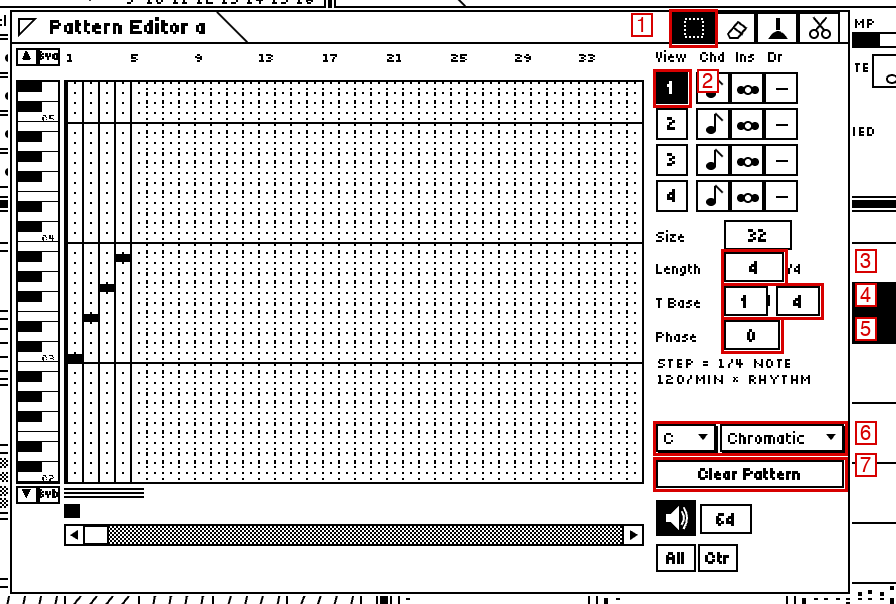
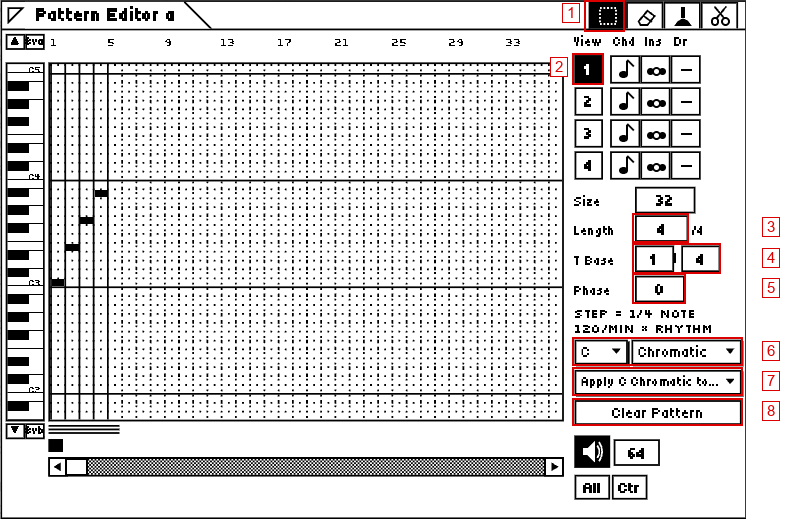
Docs: selecting vs switching Robots, Allowed Groups, Apply scale to
CONDUCTORS.md: Allowed Groups (how, every pathway, what is not restricted, one
Group, a Group switched off while in use, never empty), the overview's select /
ON-OFF split, the Groups row, persistence without a version change, tests.
Quick Start: editing an OFF Robot, Allowed Groups, Apply scale to (box 7),
refreshed Robots and Pattern Editor screenshots. README, ARCHITECTURE and the
in-app Help updated.

diff --git a/src/ui/otherWindows.ts b/src/ui/otherWindows.ts
@@ -556,7 +556,8 @@ n/d of a whole note (1|8 = eighths); Rhythm multiplies each step; Time Distortio
 Phase delays the start. Also in the Pattern Editor (Length, T Base, Phase).<br>
 <b>Pattern Editor</b> — Length = steps the Voice plays (Alt: cut / extend the Pattern) · Clear
 Pattern · Root + Scale of the Pattern (changing it moves the notes by scale degree; new notes snap
-into it; M plays the notes as written). <b>Scale Lock</b> (Transposition window, emmm): Transposition
+into it; M plays the notes as written) · Apply … to… gives it to this Pattern, the current Group or
+all Patterns. <b>Scale Lock</b> (Transposition window, emmm): Transposition
 counts degrees of each Pattern's scale instead of semitones.<br>
 <b>Typing numbers</b> — click any number, type the value, Return (Escape cancels); ↑ ↓ step it.
 Time Base takes "3/8". Range bars take "40-100". emmm ▸ Keyboard Shortcuts… (⌥H) lists every key.<br>
@@ -573,7 +574,9 @@ same music from Start.<br><br>
 (subtle → chaos), A/B states, MIDI Learn, CC Cycles, and <b>Trajectory</b> (⌥J):
 rows of values moved through at a musical rate, driving a MIDI controller, Density, Transposition,
 Tempo, the Baton or a Position. <b>Robots</b> (⌥W): four Robot Conductors (Robot 1 is M's) with
-personalities, Position weights, Rules (WHEN … THEN …) and Home / Return (⇧⌥H).
+personalities, Position weights, Rules (WHEN … THEN …) and Home / Return (⇧⌥H). Click a Robot's
+number to edit it (it stays on or off); ON / OFF switches it. Groups a–f: the Pattern Groups that
+Robot may wander to (you can still choose any).
 Options ▸ Performance Feedback shows what M decides for each note.<br>
 <b>Comfort</b> — rest the mouse on a control for a tip (Options ▸ Show Tips) · ⤢ in the menu bar =
 full screen.<br><br>

diff --git a/docs/CONDUCTORS.md b/docs/CONDUCTORS.md
@@ -27,7 +27,8 @@ generic, inert-by-default engine hooks were added (`robotGate`, `observer`); wit
 
 ```
 extended.robots[4]      RobotDef: enabled, personality, variables[], rateNum|rateDen,
-                        home (Position or none), params, target (Follower/Contrarian)
+                        home (Position or none), params, target (Follower/Contrarian),
+                        groups[6] (Allowed Groups a–f, default all)
 extended.weights        per Variable: six weights 0–100 (default 10 each)
 extended.rules[≤16]     Rule: on, when (Condition), every N, then (Action), at (timing)
 extended.home           captured Positions (all eleven Variables) + Baton; which are included
@@ -82,6 +83,36 @@ fire) but leaves claimed Variables alone. M's Baton robot runs after actions at 
 Robot 1 it also wins. Changes at *different* ticks: the latest wins (as with a hand on a
 Variable a Trajectory drives). A Variable being **Returned** (or resting at Home after a
 Return) belongs to the Return — see §4, *Ownership*.
+
+### Allowed Groups
+
+Each Robot has its own **Allowed Groups**: the Pattern Groups (a–f, M's six) it may choose by
+itself. Default: all six — so every older document and every Robot left alone behaves exactly
+as before (a test compares the music with a fingerprint recorded before this existed).
+
+* **How.** For that Robot only, a Pattern Group outside its set counts as weight 0
+  (`robotWeights`); if its set leaves no weight above 0, its allowed Groups count equally (the
+  Allowed Groups win over the weights). Its candidates and each Variable's resolution then work
+  as above, so Pattern Group always resolves to an allowed Group. Its other Variables are not
+  limited except as one Position for all of them already implies (exactly as a weight of 0 on
+  Pattern Group would). A Robot that does not move Pattern Group is not affected at all.
+* **Every automatic pathway**: timer decisions of every personality, Rule *advance* and
+  *choose*, Follower / Contrarian (a Follower keeps to its *own* Groups), and Robot 1 as
+  Baton (M) — its jump onto a forbidden Group lands on the nearest allowed one, also when the
+  Baton lands on a Snapshot cell (the stored Snapshot is untouched). This goes through
+  `robotGate.place`, which exists only while Extended is on; Classic M's robot is untouched.
+* **Not restricted**: your hand (clicking a Group, recalling a Snapshot, MIDI Learn …), a Rule's
+  *set Position* or *recall Snapshot*, Trajectories, Slideshows and Return Home. The setting
+  limits where a Robot *wanders*, never what you or your Rules choose. Priority is unchanged:
+  when two Robots change Pattern Group at the same tick, the lower number wins.
+* **One Group**: the Robot stays in it (and goes there at its next decision); its other
+  Variables keep moving. A Group is a set of four Patterns (one per Voice), so there is no
+  "Pattern inside a Group" for a Robot to choose — the four Voices play on as always.
+* **A Group switched off while the music is in it** (by any means): nothing jumps when you
+  switch it off. The Robot's next decision chooses from its allowed Groups — even a decision to
+  "stay" resolves to the nearest allowed Group — and so does every one after.
+* **Never empty.** The last allowed Group cannot be switched off (refused with a message);
+  a document with none, or with nonsense, loads with all six allowed.
 
 ## 3. Personalities
 
@@ -231,12 +262,14 @@ scans for changes and runs the queue at the transport's current tick:
 Extended window. One floating window (476 × 340) in emmm's controls and the Extended palette
 area. Every control calls a Session method; the window keeps no musical state.
 
-* **Overview** (always visible): four rows — number (inverted = on; click to switch),
-  personality (`*` = changed by a Rule), the six Positions (current inverted, Home underlined,
+* **Overview** (always visible): four rows — number (click it, or anywhere on the row, to
+  *select* the Robot for editing: outlined, the row dotted; this never switches it), **ON / OFF**
+  (inverted = on; the only switch in the row — an OFF Robot can be selected and fully
+  configured, then switched on when you want it), personality (`*` = changed by a Rule), the six Positions (current inverted, Home underlined,
   dotted with `·` = not allowed by the weights), rate (`n|d`, `sa`, or `1|n` for M's robot),
-  Variables, and state in words: `off`, `ready`, `next 3:1`, `▸ Dens Vel` (just moved, in the
+  Variables (`PGrp:ab` when its Allowed Groups are not all six), and state in words: `off`, `ready`, `next 3:1`, `▸ Dens Vel` (just moved, in the
   activity colour and bold), `waits R2`, `PAUSED`, `RETURN`, `resting`, `on Rules`. Click a
-  row to edit that Robot. The header shows the clock source (internal / external and its state).
+  row or number to edit that Robot. The header shows the clock source (internal / external and its state).
 * **Activity log**: the last six real runtime events (Robot moves with the Variables they
   changed, "followed / moved away from Robot n", rules firing or waiting, Return started /
   steps / Variable reached Home / complete / rest over, Robots switched or paused), each with
@@ -250,7 +283,9 @@ area. Every control calls a Session method; the window keeps no musical state.
   personality's parameters only), Home Position (– or 1–6), where it is, its priority, and the
   description of the algorithm from §3 with whether weights shape it and which Positions are
   allowed now. For Baton (M): M's rate and jump ranges (the same settings as the Conducting
-  window).
+  window). **Groups a–f**: the Robot's Allowed Groups (inverted = allowed; **All** allows every
+  Group again), with the set in words ("chooses only Groups a b"; "used when it moves Pattern
+  Group" if Pattern Group is not one of its Variables).
 * **WEIGHTS**: a Variable strip (each with a miniature of its weights), six bars (drag up /
   down, or ↑ ↓ with the bar focused; 0 = hatched "excluded"), the number box under each, each
   Position's chance in %, ▸now and ⌂ marks, a "each pick" strip proportional to the chances,
@@ -273,7 +308,8 @@ transport keys and Tab stays M's Pause while you play with the mouse. **⌥W** o
 front window moves the focus into it (its tab); **← →** move between its controls (also off a
 closed pop-up), **↑ ↓** between toggles, **Enter / Space** act, **Escape** gives the keys back.
 Number boxes work as everywhere in emmm (click, type, Enter; ↑ ↓ step). **⇧⌥H** is Return
-Home from anywhere.
+Home from anywhere. Selection and switching stay separate here too: Enter / Space on a Robot's
+number selects it, on its ON / OFF switches it.
 
 **Screen size.** emmm draws a fixed 720 × 470 screen scaled to the browser window, so the
 Robots window keeps its proportions at any window size; it is a floating window that covers
@@ -287,6 +323,9 @@ M's robot rate; Robots 2–4 off; equal weights; no rules; no Home). Everything 
 load: unknown personalities → Drunk (Baton only for Robot 1), Follower cycles broken, weights
 clamped 0–100 with at least one non-zero per Variable, rules with unknown kinds dropped,
 references clamped to existing Voices / Robots / Positions / Snapshots, rest clamped 0–32.
+Allowed Groups (`groups`, six booleans per Robot) needed no new version: a document without
+them — every document before them — loads with all six allowed; a missing entry counts as
+allowed, only `false` forbids, and none allowed (or nonsense) loads as all six.
 Saved: definitions, weights, rules, Home, Return settings. Not saved: everything runtime.
 Robot randomness comes from the document seed (streams 6000 + n), re-seeded at Start and by
 Reroll. Editing any of it is one Undo step; Robot moves, rule firings and Returns never enter
@@ -299,8 +338,15 @@ the history.
   personality, Follower / Contrarian and cycles, every condition and action, rule safety,
   quantization, hung notes, Home / Return paths, ownership with simultaneous Robot,
   Trajectory and Return, manual changes in Play / Pause / Stop, persistence and Undo.
+* `test/robot-groups.test.ts` — Allowed Groups: every personality over 160 decisions, a b /
+  a c / one Group, a Group switched off while in use, two Robots with different sets at once,
+  Rule advance / choose, Follower, Baton (M) and its Snapshot cell, Classic untouched, the hand
+  and Rules unrestricted, persistence, old and broken data, Undo; and all Groups allowed =
+  the exact music recorded before the feature (fingerprint).
 * `test/robots-ui.test.ts` — the window in a simulated browser (happy-dom), driven by pointer
-  and key events.
+  and key events; including: selecting a Robot (number, row, keyboard) never switches it, an
+  OFF Robot can be fully configured, selecting while playing leaves the music identical, and
+  the Groups row.
 * `scripts/browser-test.mjs` (`npm run test:browser`) — headless Chrome / Chromium over the
   DevTools protocol (no dependencies) with a **fake Web MIDI** output and input, real mouse and
   key events on the real interface: the 24 workflow scenarios (open, enable, personality,
@@ -308,7 +354,10 @@ the history.
   fired by a click while stopped, Home, Return with a Trajectory held off, rest, save, reload,
   open, Classic, Pause / Continue / Stop, external clock Start / Stop / Continue, no stuck notes
   or stray transport messages) plus keyboard, focus, dialogs, disabled controls, invalid values,
-  Undo / Redo, a 900 × 600 window and console errors. Screenshots are written to a temporary
+  Undo / Redo, a 900 × 600 window and console errors; and scenarios **A–G**: configure an OFF
+  Robot without switching it; Robot 1 on Groups a b over 40+ decisions; two Robots with
+  different Groups at once; a manual Group change; a scale applied to a Group and to all
+  Patterns, then one changed alone; save / reload / open; an older project. Screenshots are written to a temporary
   folder (or `SHOTS=dir`). This is not a test of real MIDI hardware.
 
 ## 9. Trade-offs and limits

diff --git a/docs/QUICK-START.md b/docs/QUICK-START.md
@@ -214,7 +214,7 @@ Variable on Position 1. (Your MIDI routing from the previous step is kept.)
 Double-click Voice 1's **Select** box (the box with ♪ ●● · in the first row of the Patterns
 window). The **Pattern Editor** opens.
 
-![Pattern Editor with C3 E3 G3 B♭3 entered; 1 tools, 2 View (which Voice), 3 Length, 4 Time Base, 5 Phase, 6 the Pattern's root and scale, 7 Clear Pattern](images/qs-pattern-editor.png)
+![Pattern Editor with C3 E3 G3 B♭3 entered; 1 tools, 2 View (which Voice), 3 Length, 4 Time Base, 5 Phase, 6 the Pattern's root and scale, 7 Apply scale to…, 8 Clear Pattern](images/qs-pattern-editor.png)
 
 Pitch runs vertically (a keyboard on the left, with C2, C3, C4… marked in tiny letters);
 **steps** run left to right. As you move the mouse over the grid, the right-hand panel shows
@@ -232,7 +232,8 @@ same values) as its row in the Patterns window:
 - **4 T Base** and **5 Phase** — how fast the Voice steps through the Pattern, and how late it
   starts (see *Making a Voice faster or slower* below). The line under them says it in words,
   e.g. "step = 1/4 note · 120/min × Rhythm".
-- **6 Root and Scale** of the Pattern and **7 Clear Pattern** — see *Pattern editing helpers* below.
+- **6 Root and Scale** of the Pattern, **7 Apply scale to…** and **8 Clear Pattern** — see
+  *Pattern editing helpers* below.
 
 Now close the Pattern Editor with the triangle at its top-left corner (it covers part of
 the Patterns window).
@@ -687,6 +688,12 @@ slow section to a fast one. All of these can be changed while the music plays.
   One **⌘Z** undoes the whole change. The scale is saved with the document; older documents
   open as Chromatic, unchanged. It is an editing tool: M plays the Pattern's notes exactly as
   they are — nothing is corrected while the music plays.
+- **Apply scale to…** (box 7, emmm): gives this Pattern's Root and Scale to **This Pattern**,
+  to every Pattern of the **current Group** (all four Voices), or to **All Patterns** (all six
+  Groups). Each Pattern changes exactly as if you had chosen the scale in it yourself — its own
+  notes move from its own scale to the new one; its rhythm, length, Time Base, Phase and
+  everything else stay. Afterwards each Pattern has its own scale again: apply D Minor to all,
+  change one to E Minor, and the rest stay in D Minor. One **⌘Z** undoes the whole apply.
 
 ## Saving your work
 
@@ -900,12 +907,16 @@ brought back to. The design notes, with every algorithm, are in [CONDUCTORS.md](
 
 ![The Robots window: the four Robots, the activity log and the ROBOT tab](images/qs-robots.png)
 
-- **Switch a Robot on:** click its number in the overview (inverted = on). **Robot 1 is M's own
-  Robot Conductor** — the same switch as the Conducting window's robot button, playing M's
-  algorithm (*Baton (M)*) unless you give it another personality. Robots 2–4 start off.
+- **Edit a Robot / switch it on:** click a Robot's **number** (or anywhere on its row) to edit
+  it in the ROBOT tab — this only *selects* it (outlined); it never switches it on or off. The
+  **ON / OFF** box beside the number is the switch (inverted = on). So you can set up an OFF
+  Robot completely — personality, Variables, rate, Groups — while the others play, and switch
+  it on when you want it. **Robot 1 is M's own Robot Conductor** — its ON / OFF is the same
+  switch as the Conducting window's robot button, playing M's algorithm (*Baton (M)*) unless
+  you give it another personality. Robots 2–4 start off.
 - **Give it Variables:** in the **ROBOT** tab, click the Variable toggles (Note Density,
   Velocity, Legato …). A Robot holds one Position (1–6) and puts all its Variables there — the
-  overview shows it inverted. Click a row of the overview to edit another Robot.
+  overview shows it inverted.
 - **Speed:** the **rate** is a Time Base like a Pattern's: one decision every `n | d` of a whole
   note — `1|4` a beat, `1|1` a bar, `2|1` two bars, `16|1` sixteen bars. Type `2/1` to set both.
   **sa** = it moves only when a Rule tells it to.
@@ -917,6 +928,14 @@ brought back to. The design notes, with every algorithm, are in [CONDUCTORS.md](
   way. Only the chosen personality's settings are shown, with a description of what it does;
   **Defaults** resets them. A Follower cannot watch a Robot that watches it back (the choice is
   greyed out).
+- **Allowed Groups:** the **Groups a–f** switches in the ROBOT tab say which Pattern Groups this
+  Robot may choose when it moves Pattern Group (all six by default). Switch off c–f and it
+  wanders between a and b only; leave one on and it stays in that Group (its other Variables
+  keep moving). Each Robot has its own set. The last Group can't be switched off; **All**
+  allows every Group again. Switching off the Group the music is in doesn't jump anywhere: the
+  Robot's next decision goes to an allowed Group. It limits the Robots only — you can still
+  click any Group, and Snapshots and Rules that set a Group still do. The overview shows a
+  restricted Robot as `PGrp:ab`.
 - **Who wins:** Robots may share a Variable. If two change it at the same moment, the lower
   number wins; otherwise the latest change stands. Your own clicks always work.
 - **WEIGHTS:** choose a Variable, then drag its six bars (or type the numbers): a taller bar is

diff --git a/docs/ARCHITECTURE.md b/docs/ARCHITECTURE.md
@@ -226,7 +226,9 @@ which the Conductor installs only while Extended is on (see below).
   through `MEngine.observer` (called inside `render` after every Voice event, action and
   Baton-robot move), so results do not depend on render granularity; `poke()` lets Rules see a
   hand at once (from `Session.changed`, never inside `render`, flagged by `MEngine.rendering`).
-  `robotGate` parks, holds or fences M's Baton robot. Ownership of a Variable's Position is
+  `robotGate` parks, holds or fences M's Baton robot, and `robotGate.place` keeps its Pattern
+  Group to Robot 1's Allowed Groups. A Position Robot's Allowed Groups act as per-Robot
+  weights (`robotWeights`) for its candidates and resolution. Ownership of a Variable's Position is
   RETURN > TRAJECTORY > ROBOT (`Conductor.owns`); Trajectories ask it in `trajApply`. A bounded
   FIFO queue, once-per-moment firing and a depth limit of 3 keep Rules finite.
 * `ui/robotsWindow.ts` — the Robots window (overview, activity log, ROBOT / WEIGHTS / RULES /
@@ -235,7 +237,8 @@ which the Conductor installs only while Extended is on (see below).
 A Pattern's Root + Scale (`Pattern.scale`, `app/scales.ts`) is editing metadata: pitch-class
 sets that shade the grid, snap new notes, and — when changed with `Session.setPatternScale` —
 transform the Pattern's notes by scale degree (`transformPitch` documents the exact rule;
-one Undo step). There is no real-time quantiser. The engine reads it only for the emmm
+one Undo step). `Session.applyPatternScale` does the same to this Pattern, every Pattern of the
+active Group, or all Patterns, each from its own scale and with its own copy (one Undo step). There is no real-time quantiser. The engine reads it only for the emmm
 **Transposition Scale Lock** (`Composition.scaleLock`, off by default): `MEngine.transposePitch`
 then moves each note by `shiftDegrees` (degrees of that Voice's current Pattern scale; a note
 outside the scale keeps its chromatic offset from the degree below; Chromatic = semitones)

diff --git a/README.md b/README.md
@@ -116,11 +116,11 @@ Sequence), Web MIDI input and output with timestamped scheduling, save/load and 
 randomness, and colour palettes (Options ▸ Palette…; Classic black-and-white by default).
 Everyday comforts that do not change M's music: Undo / Redo, the Pattern's Length, Time Base
 and Phase right in the Pattern Editor, Clear Pattern, a Root + Scale per Pattern (changing it
-moves the notes by scale degree) and an optional Transposition **Scale Lock** (Transposition
+moves the notes by scale degree; it can be given to a whole Group or every Pattern at once) and an optional Transposition **Scale Lock** (Transposition
 counts degrees of each Pattern's scale), typing any number directly, keyboard shortcuts
 (Return = Play / Pause, Space = Stop / Play), mouse-wheel and trackpad scrolling in the Pattern Editor, MIDI clock
 in and out in one MIDI Settings window, emmm-style tooltips and pop-up menus, and full
-screen. 477 automated tests (including a seeded
+screen. 520 automated tests (including a seeded
 fuzz test, worked examples, and the whole app driven through its menus in a simulated browser)
 cover the engine, timing maths, persistence, session logic, the interface and Extended, and
 `npm run test:browser` drives the real app in headless Chrome with a fake MIDI device.
